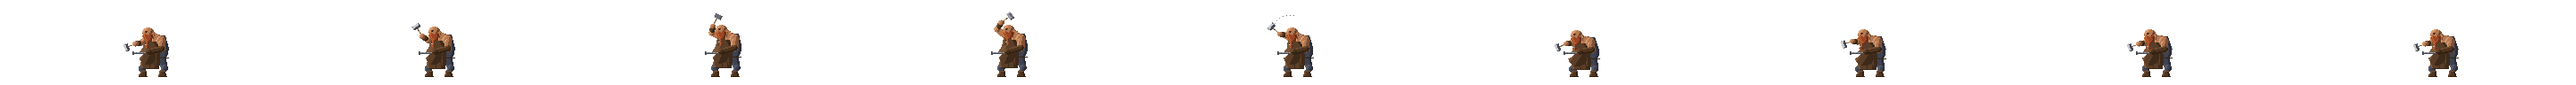
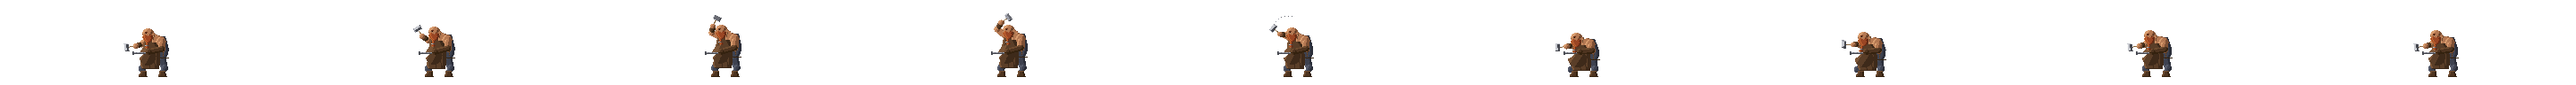
Ferreiro da forja: o ombro no fim do golpe (candidata, 3ª passada, duas variantes)
No fim do golpe, o ombro ainda parecia levantado. A causa é geométrica: o contato fica só
7 px abaixo do ombro e 21 px à frente; com o cabo de 12,5 px, braço e cabo passavam dessa
distância e o braço dobrava, e mesmo esticado ele só alcança quase na horizontal. O cabo
passa a 10 px em todas as poses, e há duas variantes no painel de testes: "Corpo desce" (a
padrão: no golpe e na volta, o quadril e os joelhos descem mais, o ombro desce 2 px e o
braço vai para a frente e para baixo, encurtado pela perspectiva, com a mão junto da
bigorna) e "Braço reto" (o braço esticado em linha até o contato). A subida aprovada não
muda. Nada integrado.

diff --git a/ferramentas/prototipos/reforco/tela/carregar.js b/ferramentas/prototipos/reforco/tela/carregar.js
@@ -90,7 +90,7 @@
      descarta a sessão temporária. Nada se aplica com uma tentativa, uma cena ou uma confirmação em andamento. As
      candidatas visuais (acabamento das armaduras, paleta da celebração) trocam na hora: são só aparência. O botão A
      está aprovado e não tem mais escolha. */
-  const ferreiro = () => (/(?:^|; )rf-ferreiro=candidata/.test(document.cookie) ? "candidata" : "jogo");
+  const ferreiro = () => ((document.cookie.match(/(?:^|; )rf-ferreiro=(candidata|reto)/) || [])[1] || "jogo");
   function painelTestes(botao, P) {
     const el = document.createElement("div");
     el.id = "painel-testes";
@@ -140,7 +140,7 @@
       ${P.vitrineArmaduras ? `<div class="pt-linha"><span>Vitrine (as mesmas peças)</span><span class="pt-seg"><button type="button" data-vitrine-tam aria-pressed="false">Ampliar 2×</button></span></div>${P.vitrineArmaduras()}` : ""}
       ${grupo("paleta", "Celebração +9 a +12", [["candidata", "Candidata"], ["anterior", "Anterior"], ["referencia13", "Ouro (ref. +13)"]])}
       ${grupo("placas", "Botões e painéis", [["jogo", "Como no jogo"], ["bancada", "Placas da bancada"]])}
-      <div class="pt-linha"><span>Ferreiro (recarrega)</span><span class="pt-seg" role="radiogroup" aria-label="Ferreiro">${[["jogo", "Como no jogo"], ["candidata", "Gesto candidato"]].map(([v, n]) =>
+      <div class="pt-linha"><span>Ferreiro (recarrega)</span><span class="pt-seg" role="radiogroup" aria-label="Ferreiro">${[["jogo", "Como no jogo"], ["candidata", "Corpo desce"], ["reto", "Braço reto"]].map(([v, n]) =>
         `<button type="button" role="radio" data-ferreiro="${v}" aria-checked="${ferreiro() === v}">${n}</button>`).join("")}</span></div>
       <div class="pt-linha"><span>Festa da especialização</span><span class="pt-seg"><button type="button" data-festa-spec>Mostrar</button></span></div>
       <p class="pt-nota">A festa é só a tela (nada muda na partida). A escolha de verdade: Taverna → Dormir, com o herói no nível 4 sem especialização.</p></fieldset>`;

diff --git a/ferramentas/prototipos/hud/forja/h2/candidata_gesto.py b/ferramentas/prototipos/hud/forja/h2/candidata_gesto.py
@@ -50,21 +50,40 @@ def com_pegada(punho, cabeca_m):
 
 # o braço do martelo de cada pose: o cotovelo, o punho e a cabeça do martelo (a ponta do cabo vem da pegada)
 BRACO = {
-    # no contato (o golpe, a volta, o repouso e o ajuste com o martelo na lâmina), o braço estendido para a frente e o
-    # cabo descendo em ângulo da mão até a espada; antes (1ª passada), a mão ficava colada ao peito (9 px do ombro) com o
-    # cotovelo dobrado para trás e o cabo na horizontal: o guidão que o Jean ainda via no fim do golpe
-    "repouso": {"cotovelo": (157.5, 48.5), "punho": (151.5, 49.5), "cabeca_m": (141.5, 53.5)},
-    "sobe1": {"cotovelo": (158.5, 45.5), "punho": (152, 41), "cabeca_m": (145.5, 30.3)},
-    "sobe2": {"cotovelo": (156, 37), "punho": (157, 29.5), "cabeca_m": (162.6, 18.4)},
-    "alto": {"cotovelo": (155, 33), "punho": (159.5, 25.5), "cabeca_m": (169.5, 18)},
-    "desce": {"cotovelo": (157, 40), "punho": (151, 38.5), "cabeca_m": (141.6, 30.3)},
-    "golpe": {"cotovelo": (157, 48.5), "punho": (151, 49.5), "cabeca_m": (141.5, 53.5)},
-    "volta": {"cotovelo": (157, 47), "punho": (151, 46.5), "cabeca_m": (141.6, 50)},
-    "ajuste": {"cotovelo": (157.5, 48.5), "punho": (151.5, 49.5), "cabeca_m": (141.5, 53.5)},
+    # no contato (o golpe, a volta, o repouso e o ajuste, com o martelo na lâmina), o ombro, o cotovelo, a mão e a cabeça
+    # do martelo quase numa linha: o braço termina estendido. 2ª passada: a mão à frente do corpo, mas o cabo de 12,5 px
+    # fazia braço + cabo maiores que a distância do ombro ao contato (21 px atrás, só 7 acima), e o braço não esticava:
+    # o ombro e o cotovelo ficavam levantados. 3ª passada: o cabo com 10 px (em todas as poses: o martelo é o mesmo)
+    "repouso": {"cotovelo": (158, 47.2), "punho": (150.8, 49.8), "cabeca_m": (141.5, 53.5)},
+    "sobe1": {"cotovelo": (158.5, 45.5), "punho": (152, 41), "cabeca_m": (146.8, 32.5)},
+    "sobe2": {"cotovelo": (156, 37), "punho": (157, 29.5), "cabeca_m": (161.5, 20.6)},
+    "alto": {"cotovelo": (155, 33), "punho": (159.5, 25.5), "cabeca_m": (167.5, 19.5)},
+    "desce": {"cotovelo": (157, 40), "punho": (151, 38.5), "cabeca_m": (143.5, 31.9)},
+    "golpe": {"cotovelo": (157, 48.6), "punho": (150.9, 50.2), "cabeca_m": (141.5, 53.5)},
+    "volta": {"cotovelo": (157.7, 46.6), "punho": (151.4, 47.8), "cabeca_m": (141.6, 50)},
+    "ajuste": {"cotovelo": (158, 47.2), "punho": (150.8, 49.8), "cabeca_m": (141.5, 53.5)},
 }
 POSES = {k: dict(F.POSES[k], **b, cabo=com_pegada(b["punho"], b["cabeca_m"])) for k, b in BRACO.items()}
-# o rastro da descida, pelo arco do alto até a frente (os pontos de antes, mais o começo atrás da cabeça)
-RASTRO = [(166, 17), (162, 17), (158, 17), (154, 18), (150, 20), (147, 23), (145, 26)]
+# A variante "o corpo desce" (3ª passada, a padrão): com o braço reto, ele ainda terminava na altura do ombro (o contato
+# fica só 7 px abaixo do ombro e 21 px à frente: para alcançar, o braço vai quase na horizontal, e braço na horizontal
+# é braço levantado). Aqui o corpo acompanha o golpe (o quadril e os joelhos descem mais, o ombro desce 2 px, a cabeça
+# vai junto) e o braço desce do ombro para a frente e para baixo, encurtado pela perspectiva (a bigorna fica à frente
+# dele, em profundidade); a mão termina baixa, junto da bigorna, e o cabo desce pouco até a lâmina. A variante "braço
+# reto" (POSES acima) fica para comparar.
+CORPO_DESCE = {"golpe": {"ombro": (-2, 4), "quadril": 2, "cabeca": (-1, 2)}, "volta": {"ombro": (-1, 3), "quadril": 2, "cabeca": (-1, 2)},
+               "repouso": {"ombro": (0, 1)}, "ajuste": {"ombro": (-1, 2)}}
+BRACO_DESCE = {
+    "golpe": {"cotovelo": (157.5, 51.5), "punho": (151.5, 52.5), "cabeca_m": (141.5, 53.5)},
+    "volta": {"cotovelo": (158, 50), "punho": (152, 50.5), "cabeca_m": (141.6, 50)},
+    "repouso": {"cotovelo": (158.5, 50), "punho": (152, 52), "cabeca_m": (141.5, 53.5)},
+    "ajuste": {"cotovelo": (158, 50.5), "punho": (152, 52), "cabeca_m": (141.5, 53.5)},
+}
+POSES_RETO = dict(POSES)
+POSES = dict(POSES_RETO)
+for _k, _b in BRACO_DESCE.items():
+    POSES[_k] = dict(POSES_RETO[_k], **CORPO_DESCE[_k], **_b, cabo=com_pegada(_b["punho"], _b["cabeca_m"]))
+# o rastro da descida, pelo arco do alto até a frente (com o cabo de 10 px, um pouco mais baixo)
+RASTRO = [(164, 18), (160, 18), (156, 18), (152, 19), (149, 21), (146, 24), (144, 27)]
 
 
 def rastro(f):
@@ -113,6 +132,11 @@ def tira():
 
 if __name__ == "__main__":
     SAIDA.mkdir(exist_ok=True)
-    nova = tira()
-    nova.save(SAIDA / "ferreiro.png", optimize=True)
-    print("candidata:", SAIDA / "ferreiro.png")
+    tira().save(SAIDA / "ferreiro.png", optimize=True)  # o corpo desce (a padrão)
+    padrao = dict(POSES)
+    POSES.clear()
+    POSES.update(POSES_RETO)
+    tira().save(SAIDA / "ferreiro-reto.png", optimize=True)  # o braço reto, para comparar
+    POSES.clear()
+    POSES.update(padrao)
+    print("candidatas:", SAIDA / "ferreiro.png", SAIDA / "ferreiro-reto.png")

diff --git a/ferramentas/prototipos/reforco/demo.py b/ferramentas/prototipos/reforco/demo.py
@@ -1520,8 +1520,10 @@ def servir():
             return self._responder(200, html.replace("</body>", extra).encode("utf-8"), "text/html; charset=utf-8")
         # 18ª: a candidata do gesto do martelo (hud/forja/h2/candidata-gesto), no lugar da tira do ferreiro do jogo, só
         # quando o painel de testes a escolheu (o cookie rf-ferreiro); sem cache, para a troca valer ao recarregar
-        if caminho == "/static/cenas/forja/ferreiro.png" and "rf-ferreiro=candidata" in (self.headers.get("Cookie") or ""):
-            arq = os.path.join(AQUI, "..", "hud", "forja", "h2", "candidata-gesto", "ferreiro.png")
+        cookie = self.headers.get("Cookie") or ""
+        if caminho == "/static/cenas/forja/ferreiro.png" and ("rf-ferreiro=candidata" in cookie or "rf-ferreiro=reto" in cookie):
+            nome = "ferreiro-reto.png" if "rf-ferreiro=reto" in cookie else "ferreiro.png"
+            arq = os.path.join(AQUI, "..", "hud", "forja", "h2", "candidata-gesto", nome)
             if os.path.isfile(arq):
                 with open(arq, "rb") as f:
                     return self._responder(200, f.read(), "image/png")

diff --git a/ferramentas/prototipos/reforco/LEIA-ME.md b/ferramentas/prototipos/reforco/LEIA-ME.md
@@ -32,7 +32,8 @@ hora (fica lembrado neste navegador).
   +8 ao +12, no tamanho de uso ou ampliadas (2×), com a alternativa escolhida. Nas telas do jogo (a esteira da forja, o
   Inventário, o Equipado), "Níveis altos (teste)" dá peças de +9 a +12.
 - **Botões e painéis:** Como no jogo × Placas da bancada (a candidata de interface).
-- **Ferreiro (recarrega):** Como no jogo × Gesto candidato (a página recarrega; a tira do ferreiro vem da candidata).
+- **Ferreiro (recarrega):** Como no jogo × Corpo desce × Braço reto (a página recarrega; a tira do ferreiro vem da
+  candidata escolhida).
 - **Festa da especialização: Mostrar:** a festa "Você agora é Paladino" com dados de exemplo, para ver o Continuar
   dela (só a tela; a partida não muda). A escolha de verdade (Olhar de perto, Confirmar e essa festa): na taverna,
   Dormir até o amanhecer, com o herói no nível 4 ainda sem especialização (o cenário inicial da demonstração; o painel
@@ -89,7 +90,12 @@ braço estica para a frente e o martelo vem em arco até o mesmo contato. Os apo
 não mudam. **Segunda passada (avaliação do Jean: a subida ficou certa; o fim, rente ao corpo, ainda lia como guidão):**
 no contato com a espada (o golpe, a volta, o repouso e o ajuste), o braço fica estendido para a frente, com a mão à
 frente do corpo, e o cabo desce em ângulo até a lâmina; antes, a mão terminava colada ao peito, com o cotovelo dobrado
-para trás e o cabo na horizontal. Mantém a nuca e o calcanhar da bigorna da 17ª. Nada integrado: a fonte `aseprite/forja-h2.aseprite` e o
+para trás e o cabo na horizontal. **Terceira passada (o ombro ainda alto no fim):** o contato fica só 7 px abaixo do
+ombro e 21 px à frente, então o braço só alcançava quase na horizontal, e braço na horizontal é braço levantado. Duas
+variantes no painel ("Ferreiro"): **Corpo desce** (a padrão: no golpe e na volta, o quadril e os joelhos descem mais,
+o ombro desce 2 px e o braço vai para a frente e para baixo, encurtado pela perspectiva, com a mão terminando junto da
+bigorna) e **Braço reto** (o cabo com 10 px e o braço esticado em linha até o contato). O cabo tem 10 px nas duas e
+em todas as poses. Mantém a nuca e o calcanhar da bigorna da 17ª. Nada integrado: a fonte `aseprite/forja-h2.aseprite` e o
 jogo não mudaram.
 
 ### Conferido

diff --git a/roadmapIDEIAS/00-COMECE-AQUI.md b/roadmapIDEIAS/00-COMECE-AQUI.md
@@ -8093,3 +8093,14 @@ Tudo no protótipo (`ferramentas/prototipos/hud/LEIA-ME.md`, as seções de mesm
 - **A puladinha:** era a tecla do atalho caindo para baixo do nome com o botão pressionado, corrigida na 1.214.2
   (antes desta avaliação). Conferido com o código atual: pressionar desce só o ícone e o nome 1 px, e um clique de
   verdade não mexe a barra em nenhum quadro (Grimório, Inventário, Comitiva).
+
+### 28/10/2026 (data do computador local) — Ferreiro: o ombro no fim do golpe (candidata, 3ª passada)
+
+- **Avaliação do Jean:** o braço melhorou muito, mas no fim do golpe o ombro ainda parecia levantado, como se,
+  perto demais da bigorna, ele não conseguisse esticar o braço (o martelo grande demais ou o corpo perto demais).
+- **Causa:** a geometria. O contato fica só 7 px abaixo do ombro e 21 px à frente dele; com o cabo de 12,5 px, braço
+  e cabo passavam dessa distância e o braço dobrava; e, mesmo esticado, ele só alcança quase na horizontal.
+- **Candidatas (painel, "Ferreiro"):** **Corpo desce** (a padrão: o corpo acompanha o golpe, com o quadril e os
+  joelhos mais baixos e o ombro 2 px abaixo; o braço vai para a frente e para baixo, encurtado pela perspectiva, e a
+  mão termina junto da bigorna) e **Braço reto** (o braço esticado em linha até o contato). O cabo passa a 10 px em
+  todas as poses. A subida aprovada fica. Nada integrado.
